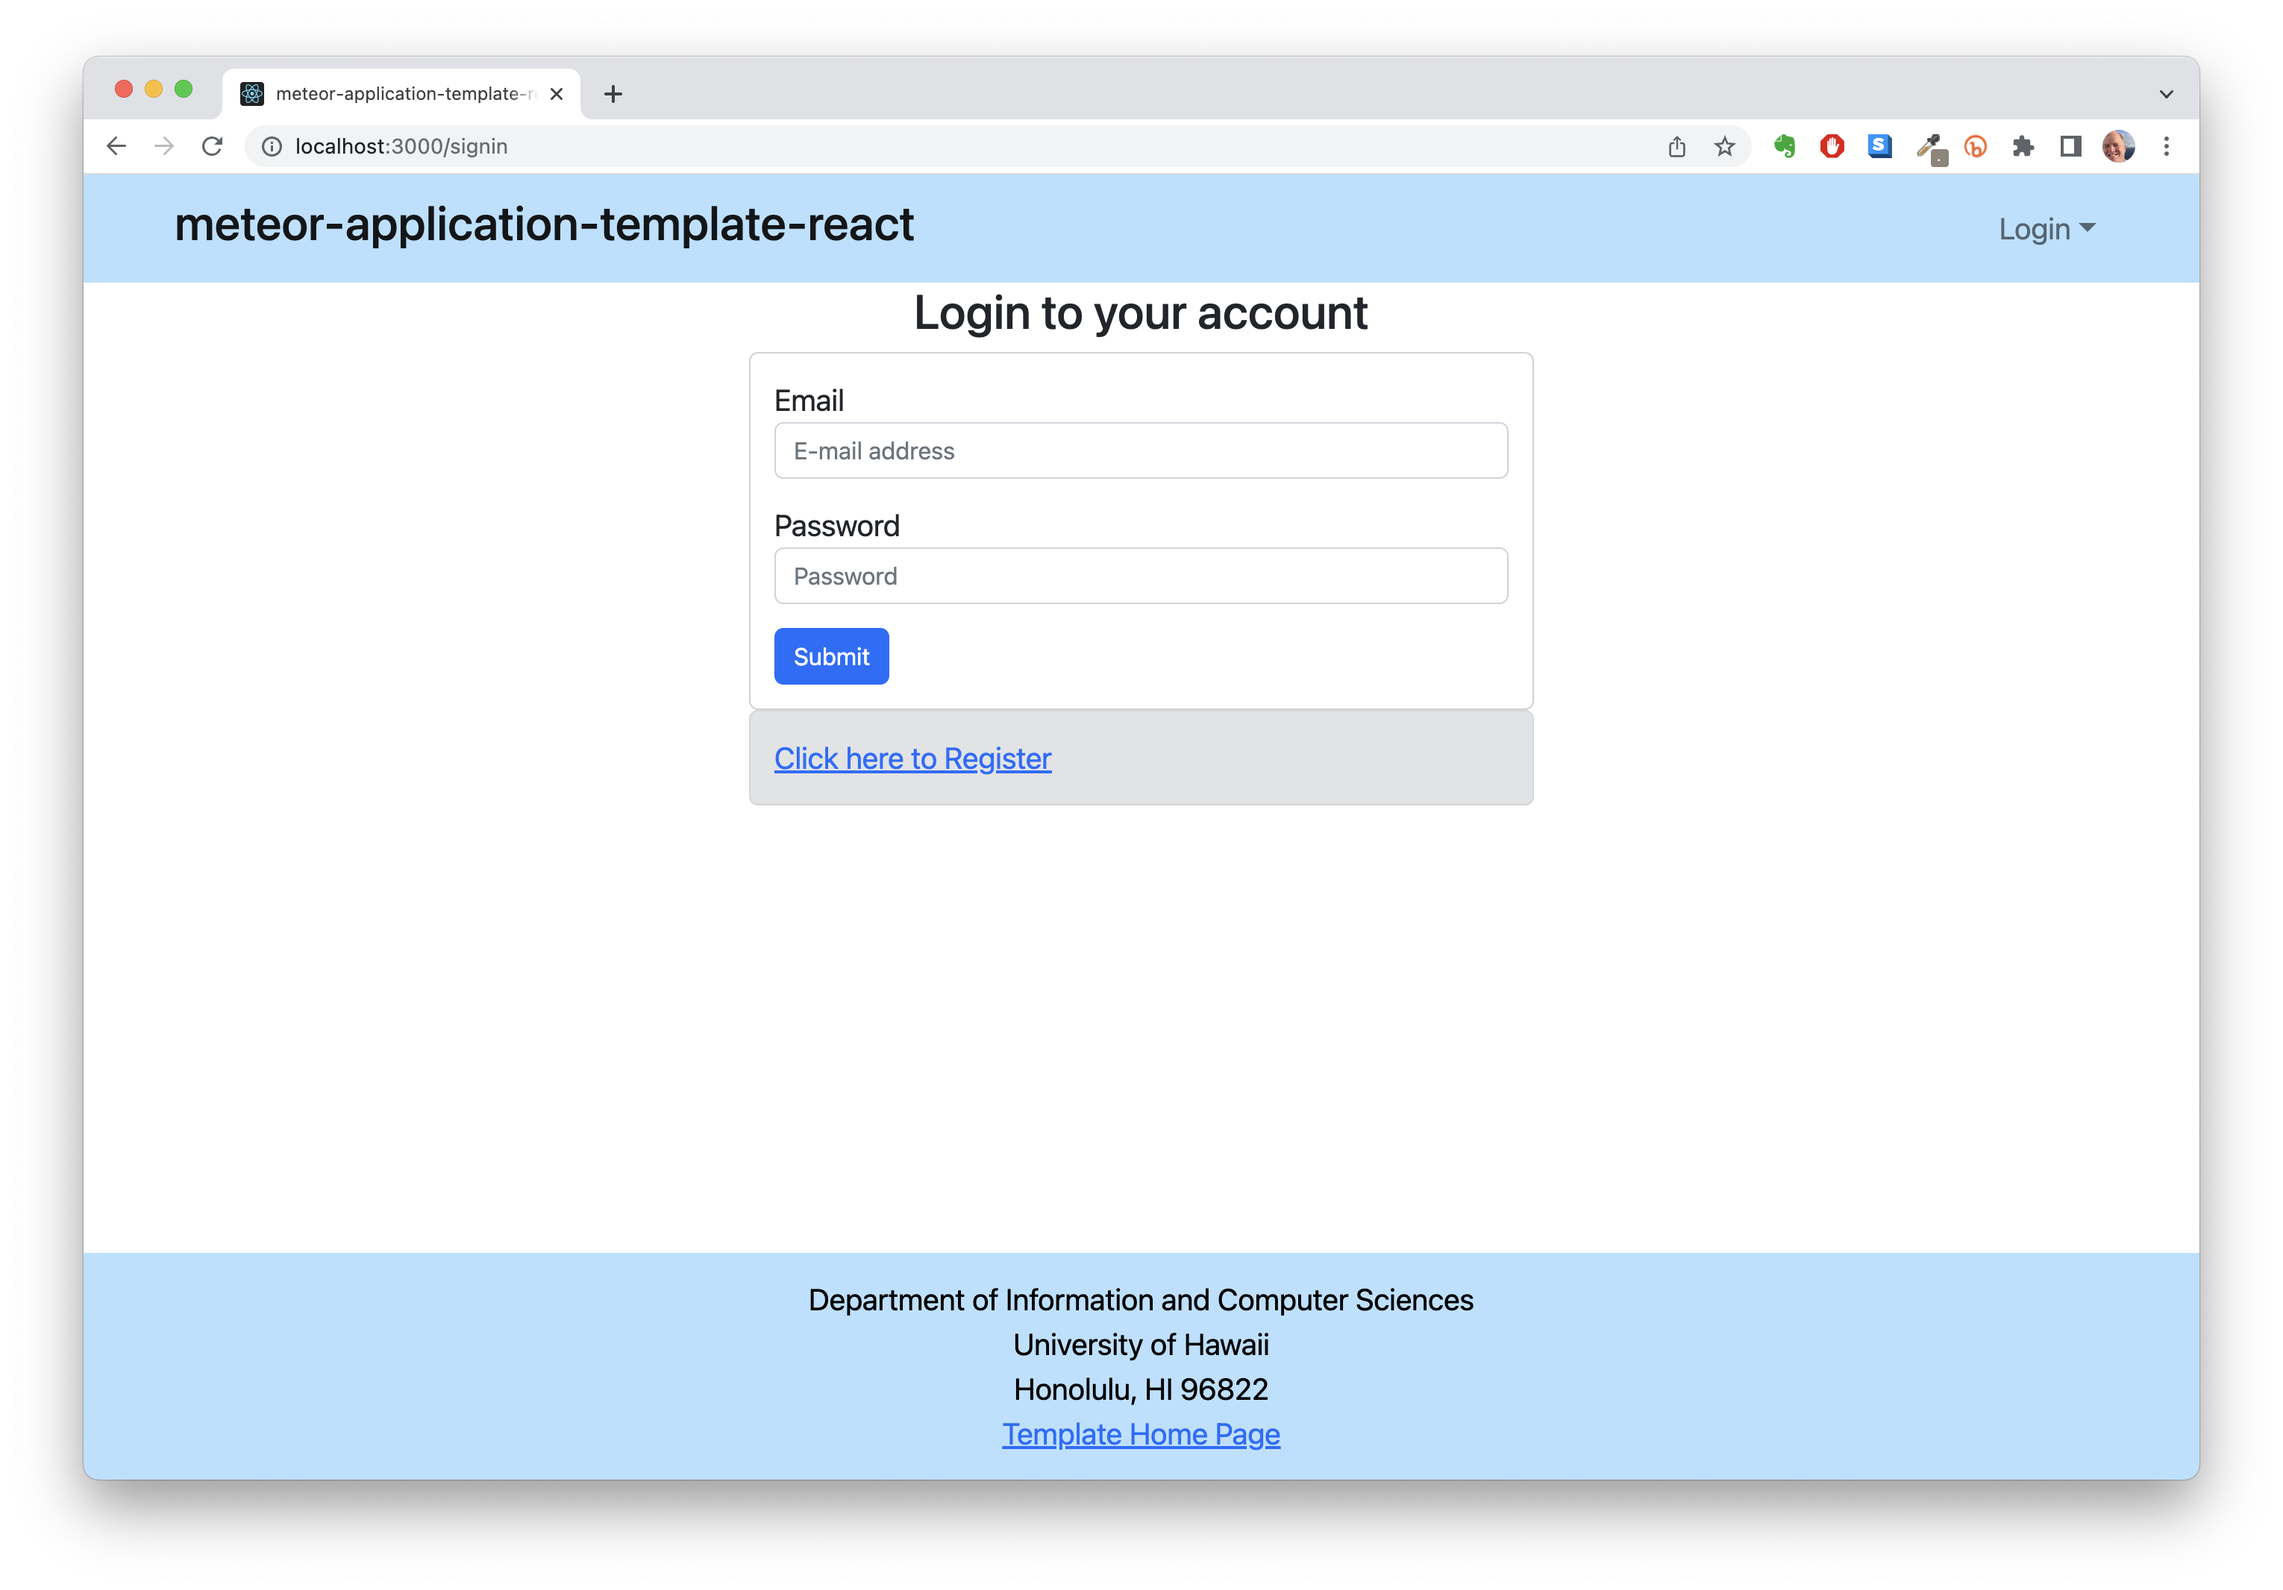
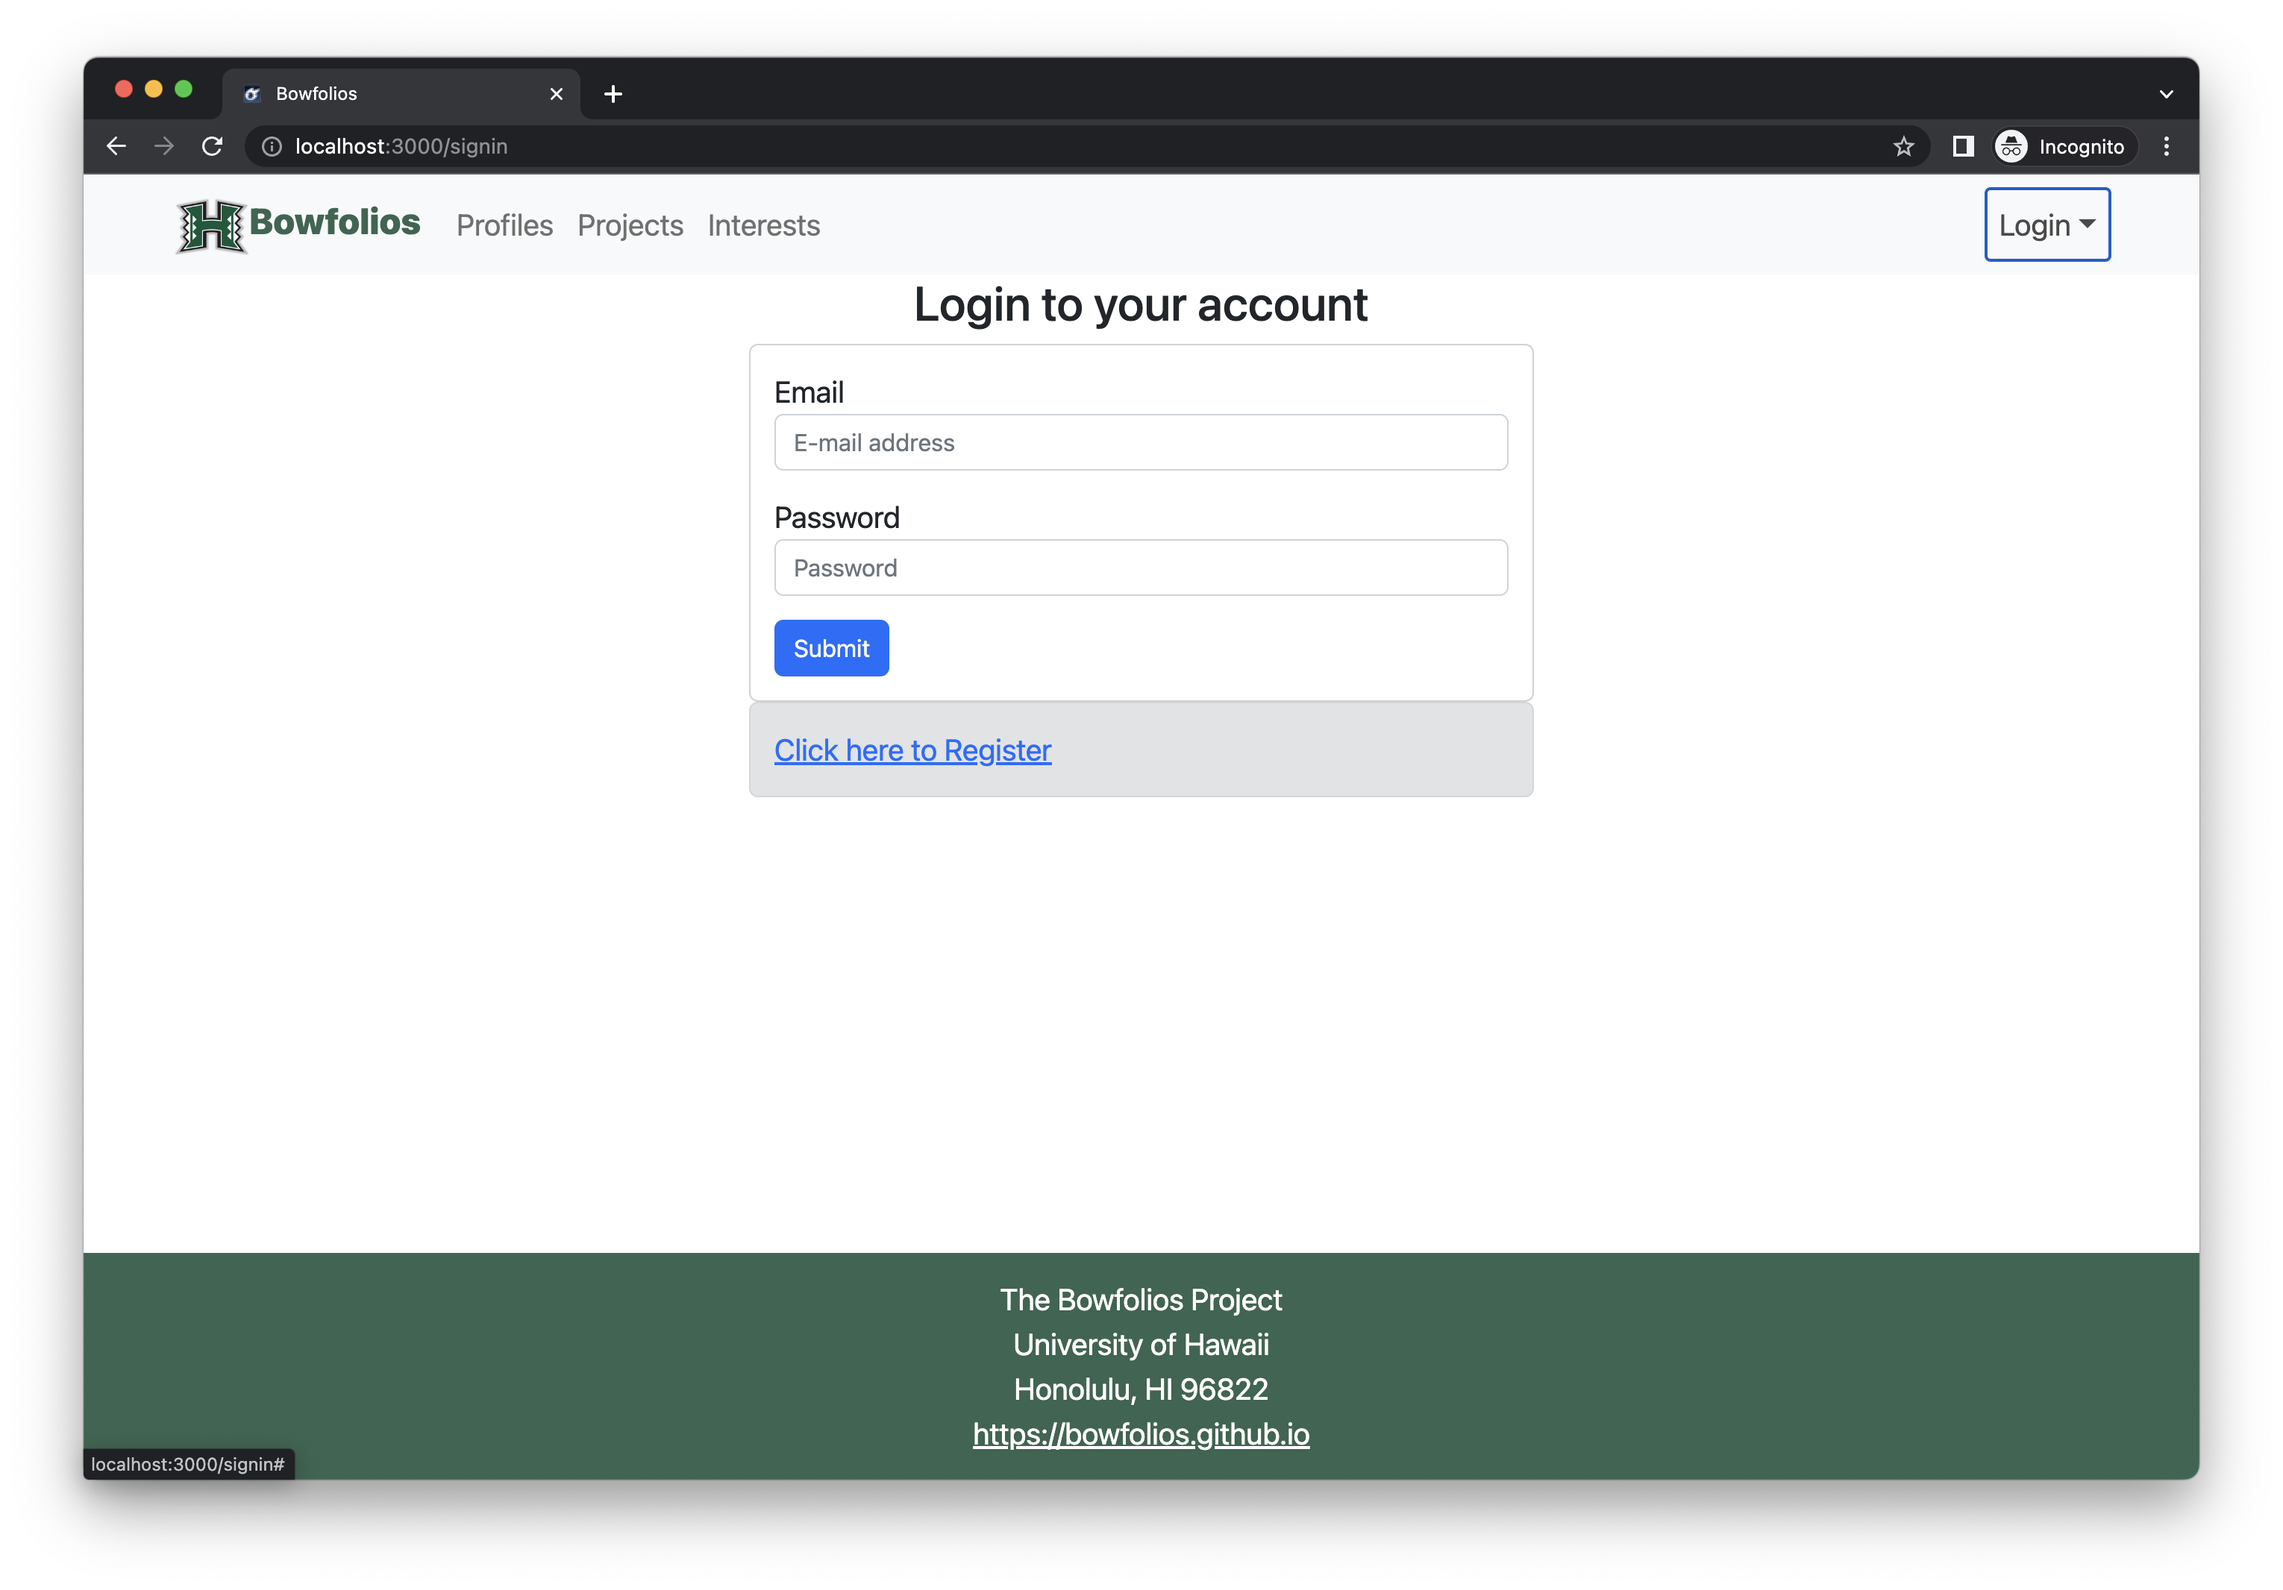
Updated images.

Changed region(s): [[0.031, 0.031, 0.9624, 0.2167], [0.031, 0.7739, 0.9624, 0.9597], [0.3415, 0.2167, 0.683, 0.5263]]

diff --git a/app/client/main.html b/app/client/main.html
@@ -2,7 +2,7 @@
   <meta charset="utf-8">
   <link rel="shortcut icon" href="/favicon.ico">
   <meta name="viewport" content="width=device-width, initial-scale=1">
-  <title>meteor-application-template-react</title>
+  <title>Bowfolios</title>
 </head>
 
 <body>
